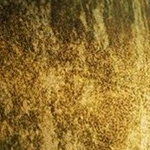
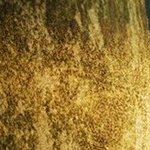
WIP

diff --git a/generate.go b/generate.go
@@ -43,7 +43,7 @@ func main() {
 	cmd.Run()
 
 	// Crop the image
-	cmd = exec.Command("ffmpeg", "-i", "wallpaper_scaled.png", "-vf", "crop=150:150:60:184", "0_0.png")
+	cmd = exec.Command("ffmpeg", "-i", "wallpaper_scaled.png", "-vf", "crop=150:150:65:184", "0_0.png")
 	var stderr bytes.Buffer
 	cmd.Stderr = &stderr
 	err := cmd.Run()
